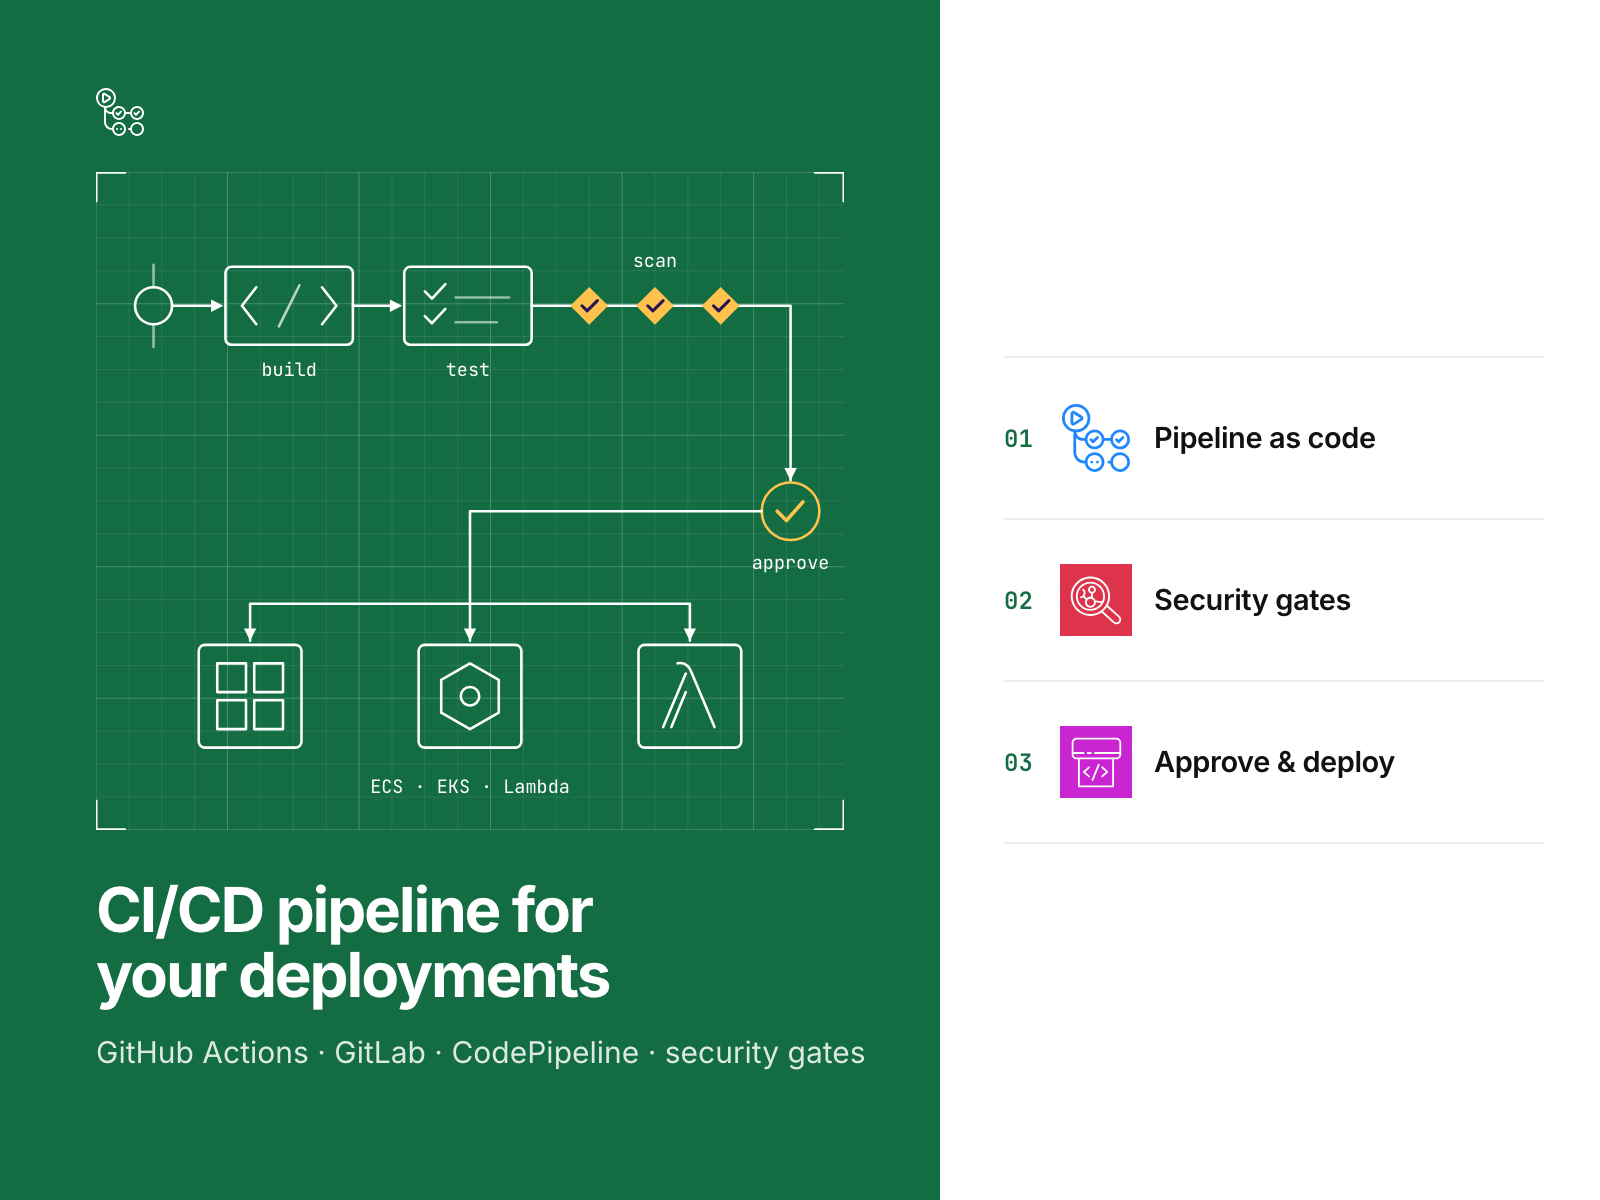
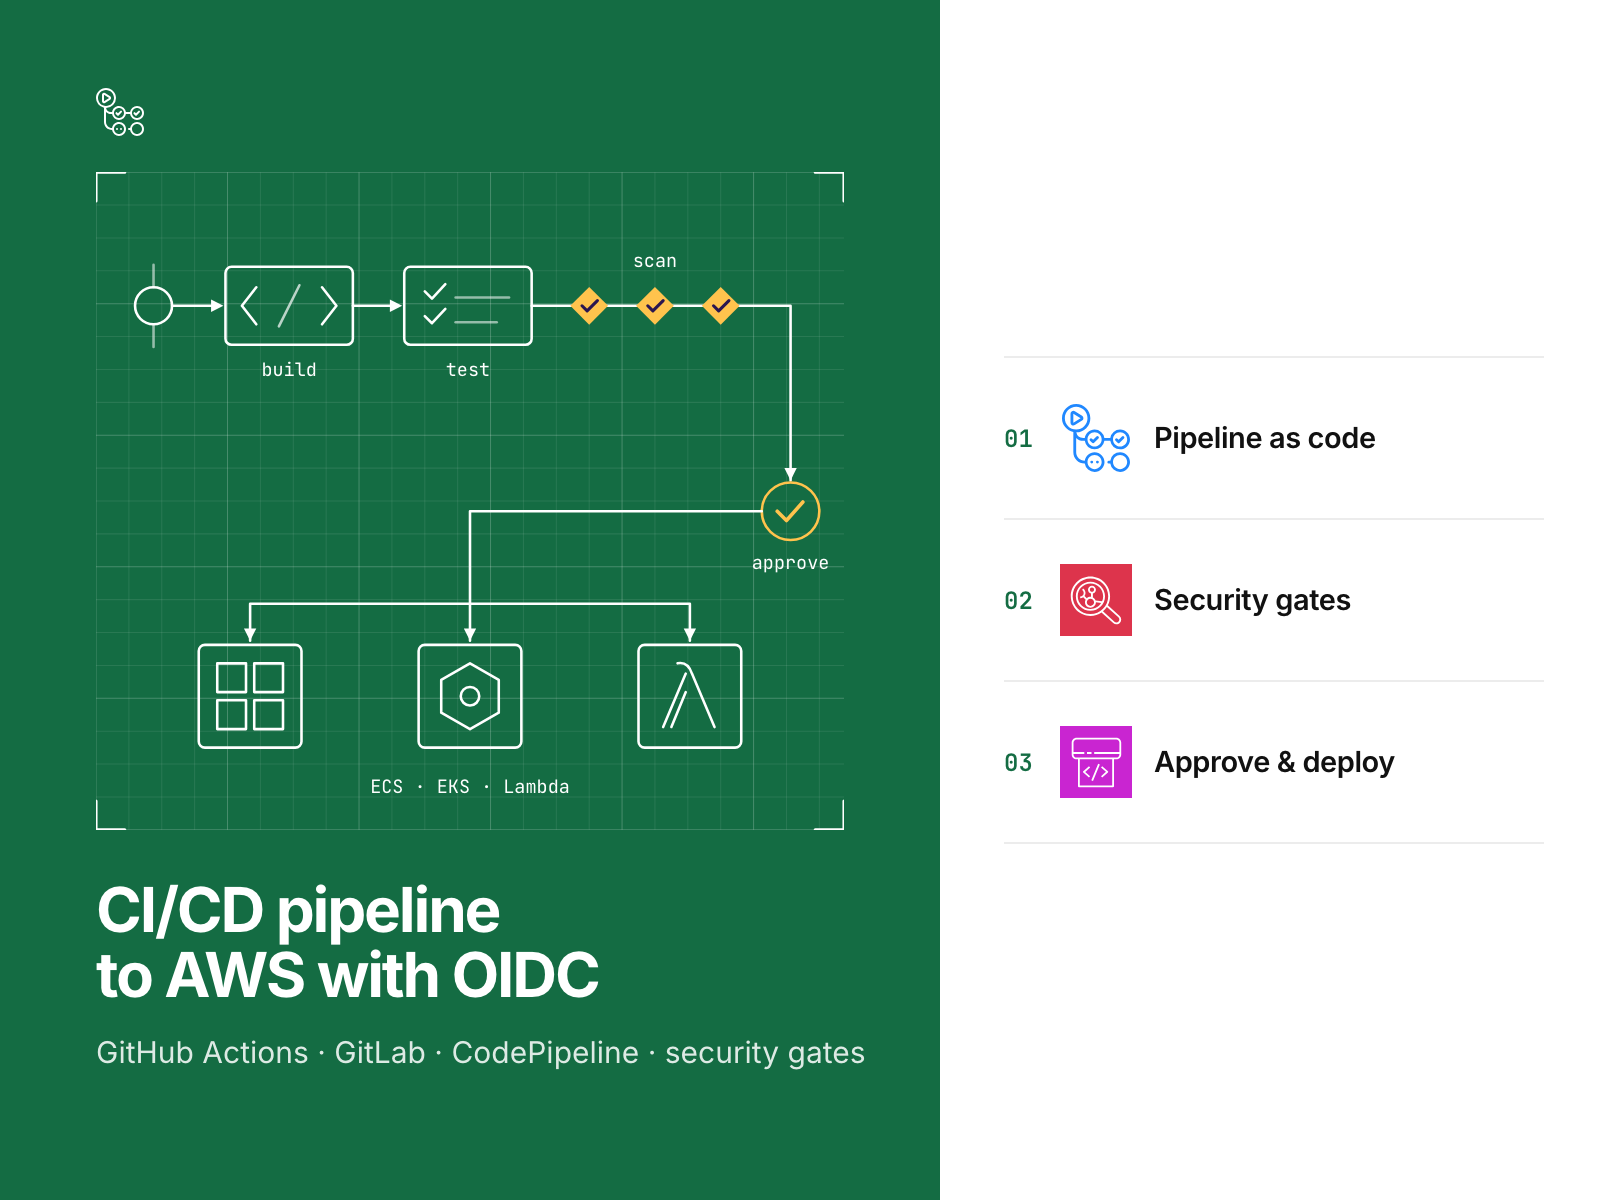
docs: remove marketplace links and keep the portfolio wording neutral (#11)
Removes the Upwork link and the service/sales framing around it; review
instructions now reject marketplace links and service offers.

<!-- This is an auto-generated comment: release notes by coderabbit.ai
-->

## Summary by CodeRabbit

* **Documentation**
* Updated project guidance to prohibit job-marketplace profile links,
service offers, and sales badges.
* Removed the Upwork project link and description from the related work
list; the AWS portfolio link remains.

<!-- end of auto-generated comment: release notes by coderabbit.ai -->

Changed region(s): [[0.0625, 0.74, 0.4062, 0.8325]]

diff --git a/docs/adr/0009-gitlab-ci-example.md b/docs/adr/0009-gitlab-ci-example.md
@@ -38,7 +38,7 @@ call STS even when it runs on `main`.
 
 ## Consequences
 
-- The multi-tool claim of the CI/CD offer rests on code and tests, not on a sentence.
+- The multi-tool claim of the pipeline rests on code and tests, not on a sentence.
 - Any job added to `main` with `id_tokens` and the `sts.amazonaws.com` audience could assume the role. The pipeline
   test fails if a second job declares `id_tokens`, and GitLab's protected branches limit who can change the file.
 - The subject matches the branch by name. A fork merge request whose source branch is also named `main`, run in

diff --git a/docs/adr/0010-github-actions-vs-codepipeline.md b/docs/adr/0010-github-actions-vs-codepipeline.md
@@ -60,7 +60,7 @@ When to use each, as advice for a client:
 
 ## Consequences
 
-- The CI/CD offer covers both GitHub-native and AWS-native clients with tested code.
+- The pipeline covers both GitHub-native and AWS-native clients with tested code.
 - Two deploy paths can update the same service. A client picks one per service; running both would let either
   deploy without the other's approval.
 - The CodePipeline path does not attest provenance or an SBOM. Trivy runs on the image before the push, and the

diff --git a/README.md b/README.md
@@ -230,8 +230,6 @@ Branch protection on `main` requires these checks; the command that applies them
 
 ## Related work
 
-- [CI/CD pipeline to AWS on Upwork](https://www.upwork.com/freelancers/~014b3520cf9e140103). This lab is the
-  pattern that service delivers on a client's own repository and account.
 - [AWS DevOps portfolio](https://github.com/gamaware/aws-devops-portfolio): the index of every lab and sample
   deliverable.
 

diff --git a/.github/copilot-instructions.md b/.github/copilot-instructions.md
@@ -15,3 +15,4 @@ When reviewing pull requests in this repository:
   assertion in `terraform/tests/codepipeline.tftest.hcl`.
 - No real account IDs, ARNs, IPs, emails or client names. Use placeholders or AWS documentation example IDs.
 - Conventional commit titles; documentation and `CHANGELOG.md` updated with behavior changes.
+- Flag job-marketplace profile links, service offers and sales badges; none are allowed.
